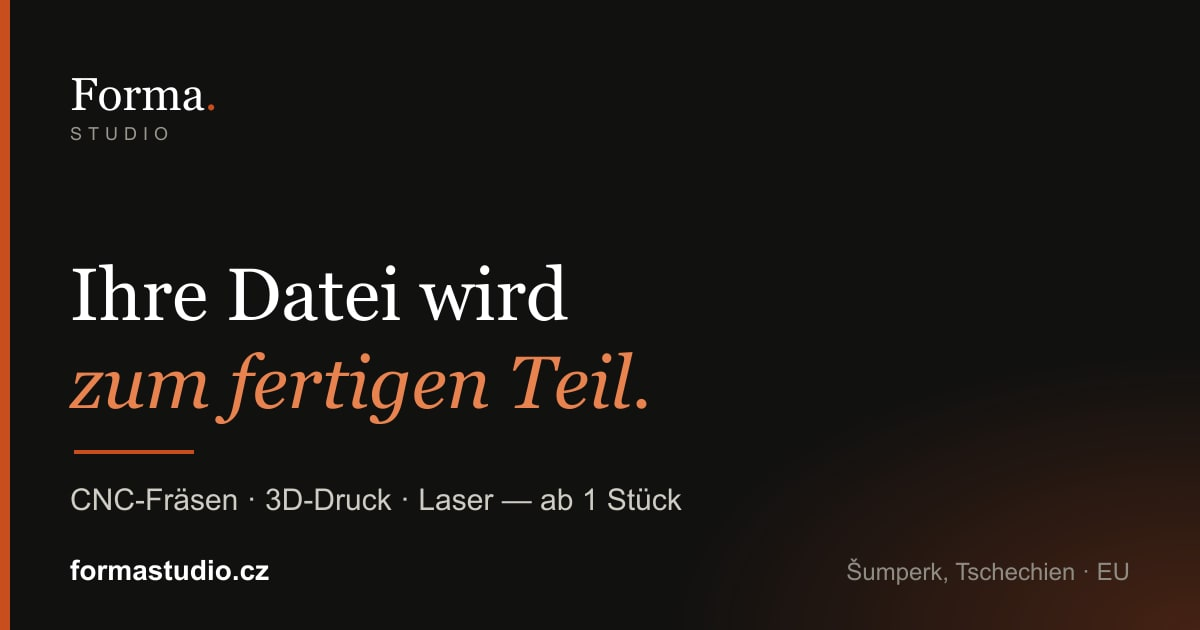
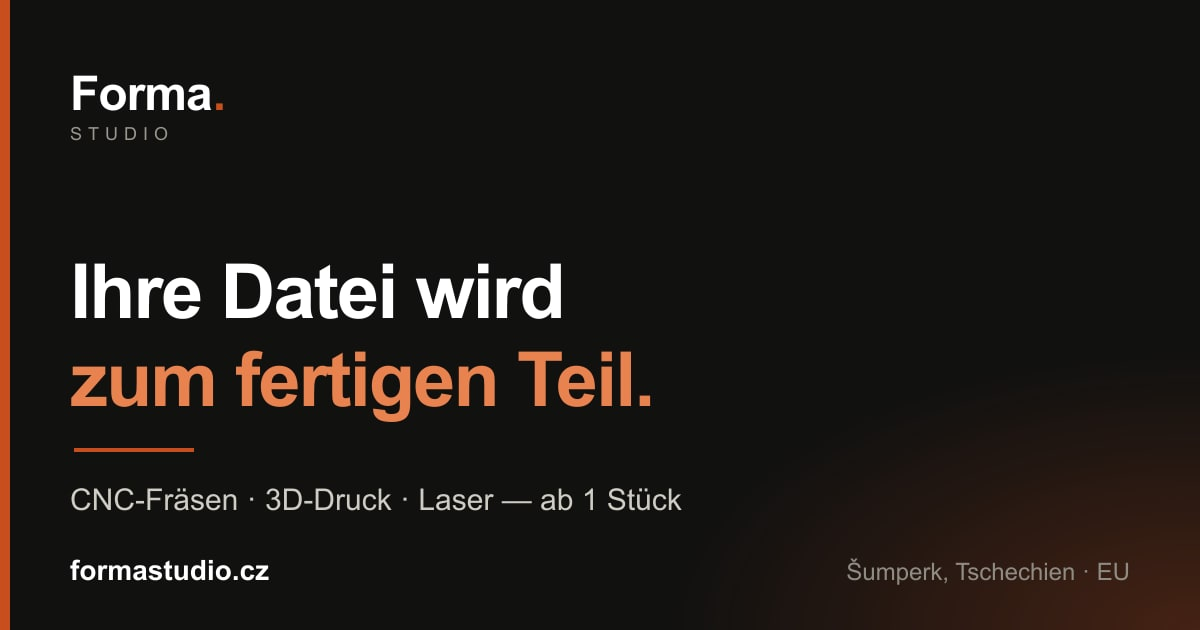
Match OG share cards to the new grotesque brand
Regenerate the 1200x630 social cards with a bold sans display instead of
the serif, so shared links look consistent with the redesigned site.

diff --git a/og-images.js b/og-images.js
@@ -6,7 +6,9 @@
 const fs = require('fs');
 const sharp = require('sharp');
 
-const SERIF = "Georgia, 'Times New Roman', serif";
+// Site display face is Space Grotesk (not available to the SVG renderer), so
+// use a strong sans fallback — keeps the cards on-brand (grotesque, not serif).
+const DISP = "Arial, 'Helvetica Neue', Helvetica, sans-serif";
 const SANS = "Arial, 'Helvetica Neue', Helvetica, sans-serif";
 
 const L = {
@@ -32,12 +34,12 @@ function svg(t) {
   <rect width="1200" height="630" fill="url(#glow)"/>
   <rect x="0" y="0" width="10" height="630" fill="#c94e1e"/>
 
-  <text x="70" y="110" font-family="${SERIF}" font-size="46" fill="#ffffff">Forma<tspan fill="#c94e1e">.</tspan></text>
+  <text x="70" y="110" font-family="${DISP}" font-size="48" font-weight="700" letter-spacing="-1" fill="#ffffff">Forma<tspan fill="#c94e1e">.</tspan></text>
   <text x="70" y="140" font-family="${SANS}" font-size="18" letter-spacing="6" fill="#9a978f">STUDIO</text>
 
-  <text x="70" y="320" font-family="${SERIF}" font-size="74" fill="#ffffff">${esc(t.h1)}</text>
-  <text x="70" y="408" font-family="${SERIF}" font-size="74" font-style="italic" fill="#e8824f">${esc(t.h2)}</text>
-  <rect x="74" y="450" width="120" height="4" fill="#c94e1e"/>
+  <text x="70" y="318" font-family="${DISP}" font-size="76" font-weight="700" letter-spacing="-2" fill="#ffffff">${esc(t.h1)}</text>
+  <text x="70" y="406" font-family="${DISP}" font-size="76" font-weight="700" letter-spacing="-2" fill="#e8824f">${esc(t.h2)}</text>
+  <rect x="74" y="448" width="120" height="4" fill="#c94e1e"/>
 
   <text x="70" y="510" font-family="${SANS}" font-size="30" fill="#cfccc4">${esc(t.sub)}</text>
 
